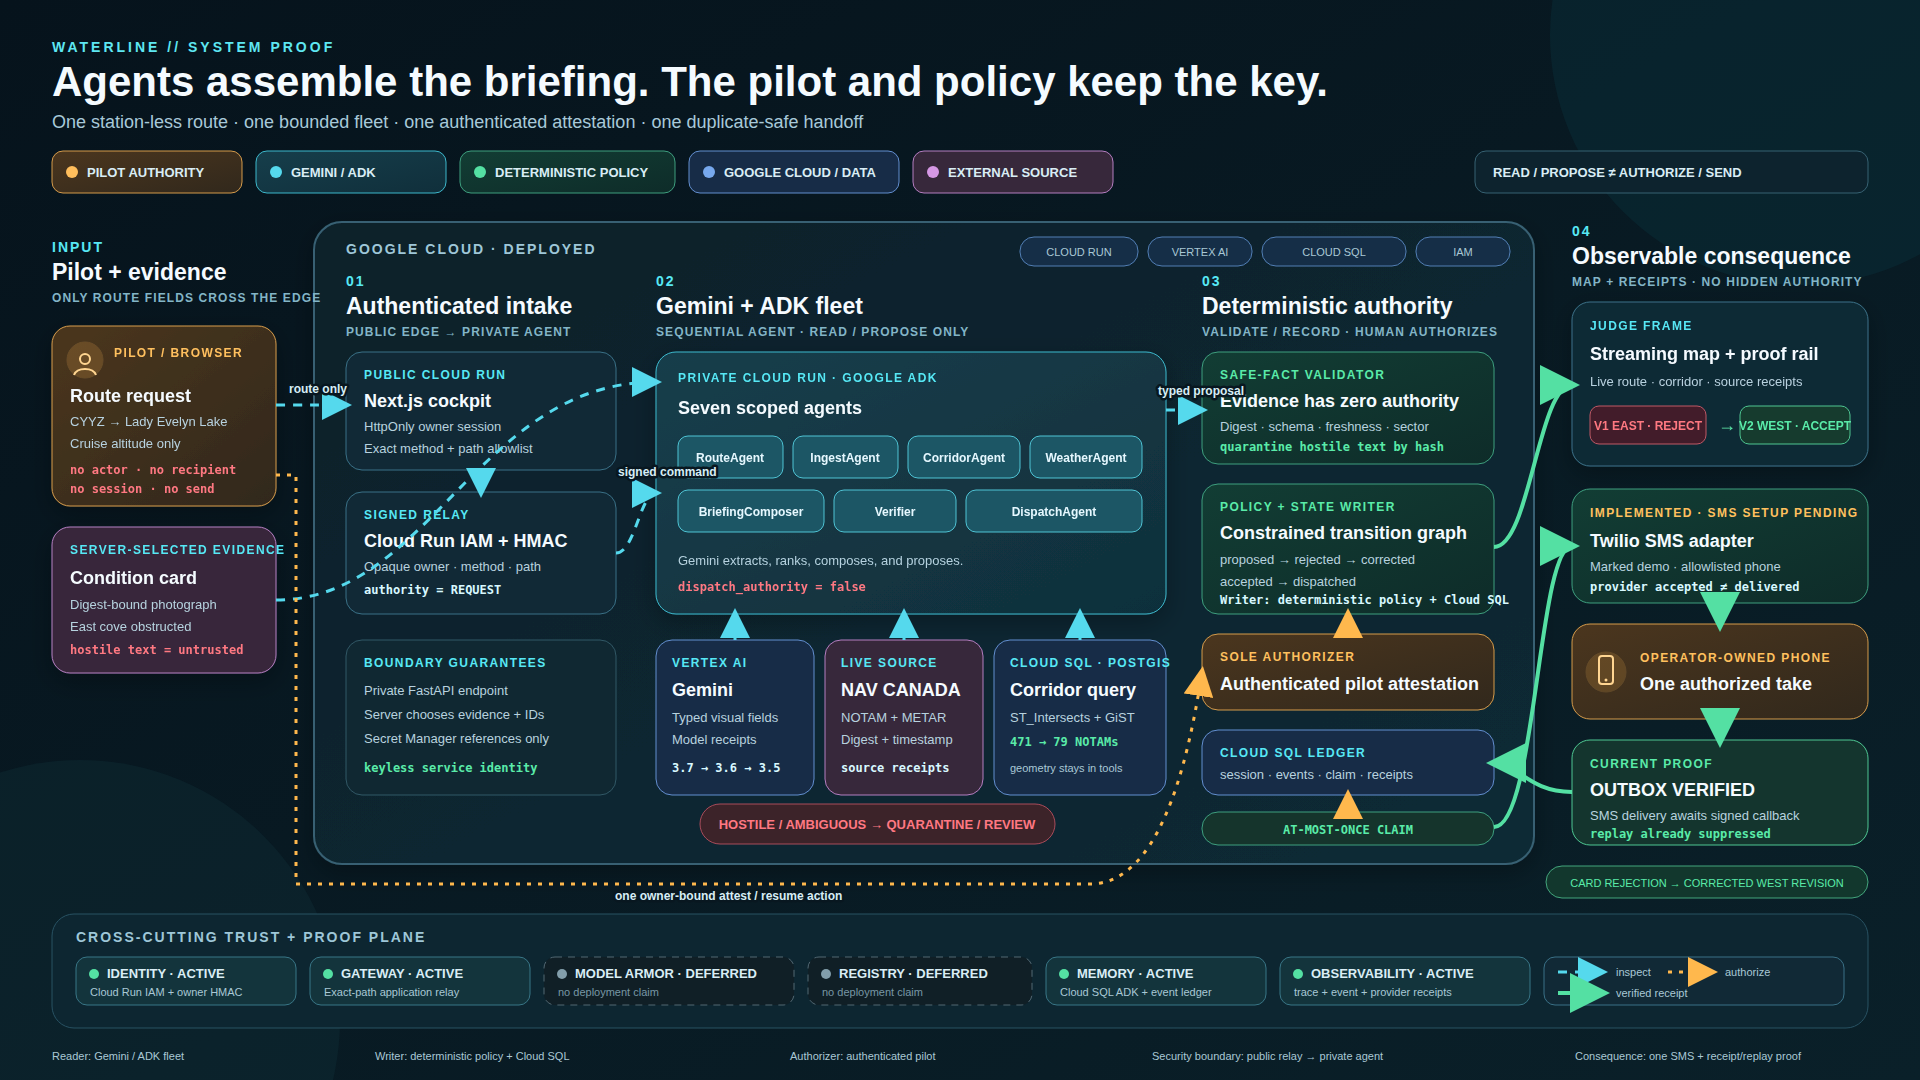
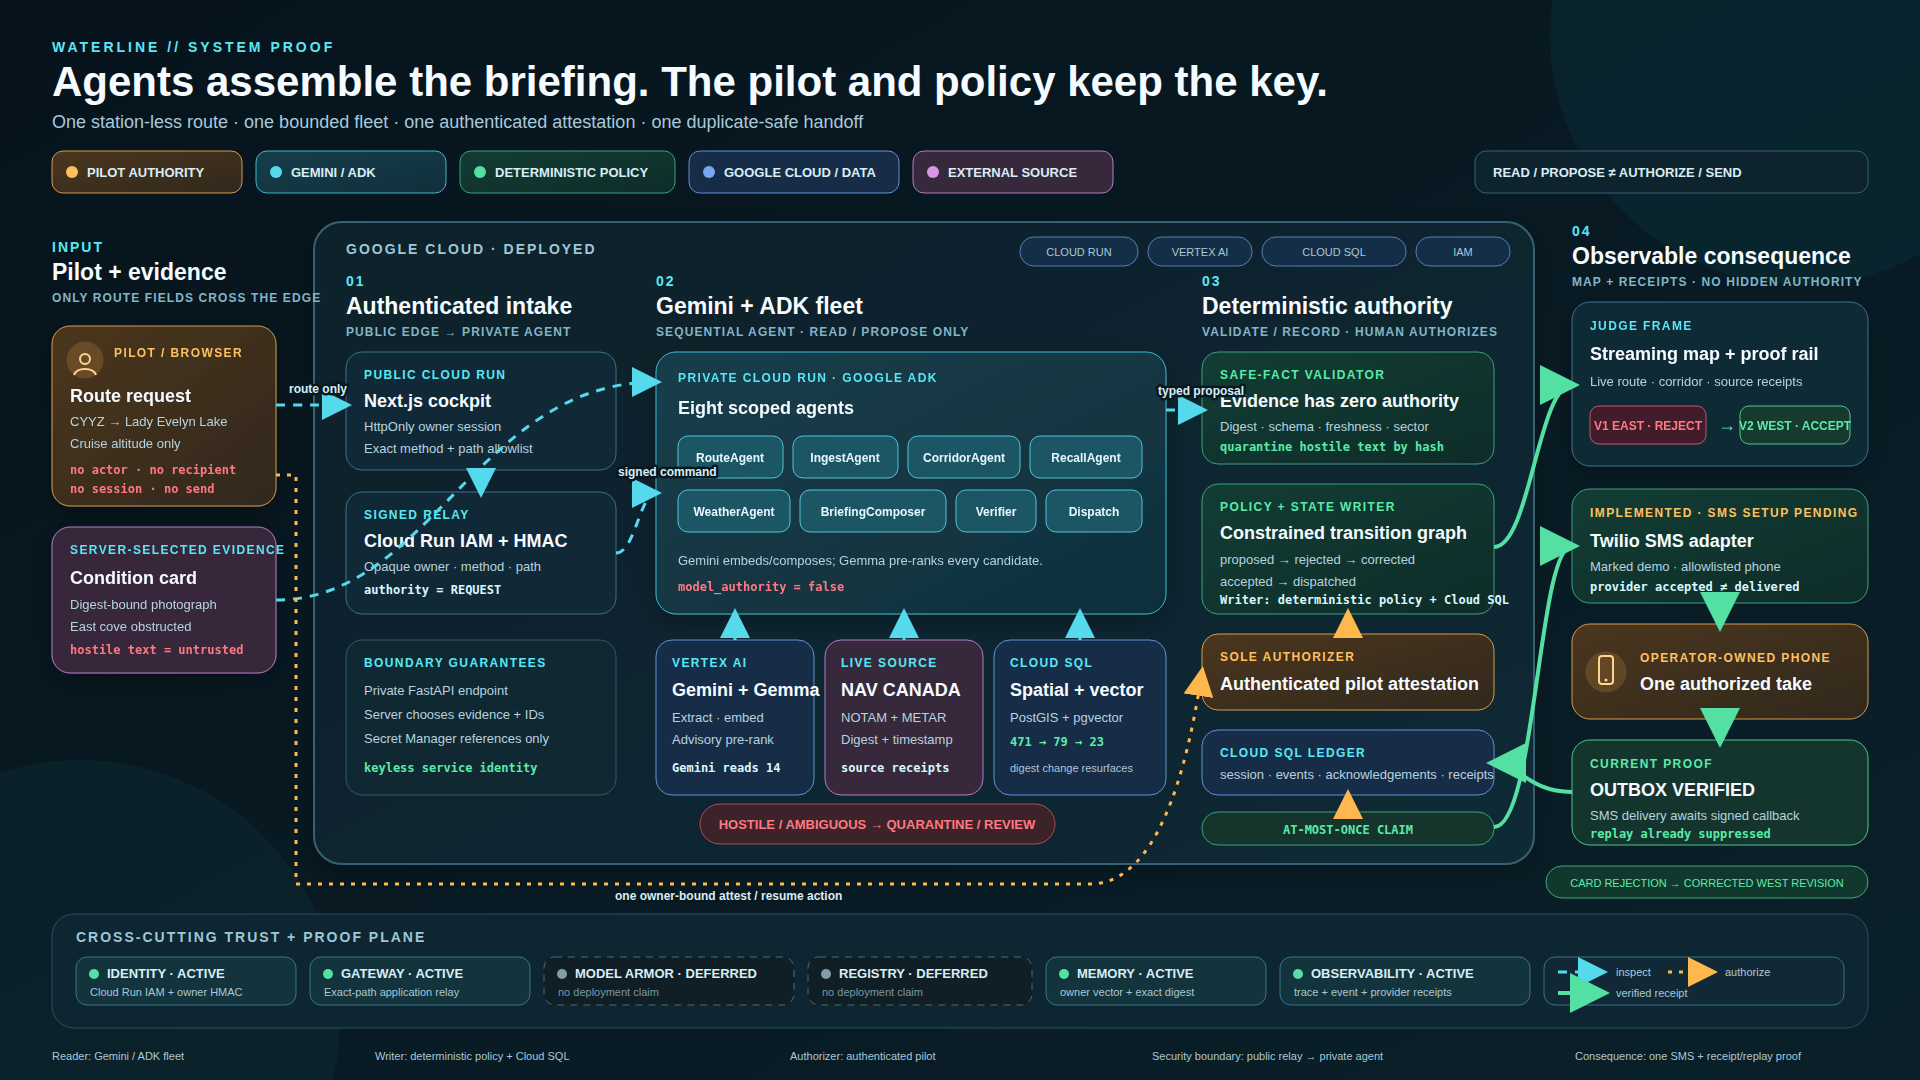
feat(demo): expose repeat-flight memory proof

diff --git a/web/src/app/page.tsx b/web/src/app/page.tsx
@@ -282,7 +282,10 @@ export default function Page() {
   }
 
   const stateTimeline = timeline.filter((event) =>
-    event.from_status !== event.to_status || event.event_type === "recovery_started"
+    event.from_status !== event.to_status ||
+    event.event_type === "recovery_started" ||
+    event.event_type === "flight_memory_written" ||
+    event.event_type === "flight_memory_failed"
   );
   const canAttest = mission?.status === "awaiting_attestation" &&
     conditionCard?.validation_result === "accepted" &&
@@ -315,7 +318,7 @@ export default function Page() {
         </div>
         <div className="feed">
           <div className="section-h">Agent roster</div>
-          {steps.length === 0 && !running && <div className="prov">Seven agents brief in sequence.</div>}
+          {steps.length === 0 && !running && <div className="prov">Eight agents brief in sequence.</div>}
           {mission && (
             <div className="mission-chip">
               <span>{mission.mission_id}</span>
@@ -331,7 +334,11 @@ export default function Page() {
                 <div className={`state-event state-${event.to_status}`} key={event.event_id}>
                   <i aria-hidden="true" />
                   <div>
-                    <strong>{event.to_status.replaceAll("_", " ")}</strong>
+                    <strong>{event.event_type === "flight_memory_written"
+                      ? "MEMORY WRITTEN"
+                      : event.event_type === "flight_memory_failed"
+                        ? "MEMORY DEGRADED"
+                        : event.to_status.replaceAll("_", " ")}</strong>
                     <span>{event.reason_code.replaceAll("_", " ")}</span>
                     <small>{event.event_id}</small>
                   </div>
@@ -395,6 +402,7 @@ export default function Page() {
           <div className="k"><span className="dot" style={{ background: "#35d0d6" }} />corridor ±10 NM</div>
           <div className="k"><span className="dot" style={{ background: "#e6eef7" }} />NOTAM on route</div>
           <div className="k"><span className="dot" style={{ background: "#ef6b6b" }} />FIR-wide NOTAM</div>
+          <div className="k"><span className="dot" style={{ background: "#ff4f91" }} />changed source resurfaced</div>
           <div className="k"><span className="dot" style={{ background: "#57c98a" }} />source station</div>
         </div>
         <div className="footer">HACKATHON DEMO · PILOT REVIEW REQUIRED</div>

diff --git a/web/src/components/MapView.tsx b/web/src/components/MapView.tsx
@@ -23,8 +23,9 @@ const PAINT: Record<string, () => maplibregl.LayerSpecification[]> = {
     paint: { "line-color": "#f2b45a", "line-width": 2.5, "line-dasharray": [2, 1] } }],
   notams: () => [{ id: "notams", type: "circle", source: "notams",
     paint: {
-      "circle-radius": 5,
-      "circle-color": ["case", ["get", "fir_wide"], "#ef6b6b", "#e6eef7"],
+      "circle-radius": ["case", ["get", "memory_changed"], 8, 5],
+      "circle-color": ["case", ["get", "memory_changed"], "#ff4f91",
+        ["get", "fir_wide"], "#ef6b6b", "#e6eef7"],
       "circle-opacity": 0.85, "circle-stroke-color": "#0a0f16", "circle-stroke-width": 1 } }],
   stations: () => [{ id: "stations", type: "circle", source: "stations",
     paint: { "circle-radius": 7, "circle-color": "#57c98a",

diff --git a/README.md b/README.md
@@ -16,7 +16,7 @@ A bush pilot flying a float plane to a remote lake may have no identifier-keyed 
 2. For Lady Evelyn Lake, the authenticated service attaches one prepared synthetic condition-card photograph. Gemini proposes a typed extraction; a deterministic validator binds it to the tracked digest, accepts the east-cove obstruction, and quarantines the embedded hostile instruction without copying that text into trusted state.
 3. Waterline pulls the **live NAV CANADA** NOTAM feed for the Flight Information Region — hundreds of NOTAMs — and reduces it in PostGIS to only the ones whose geometry intersects the route corridor and whose altitude/validity bands overlap the flight. The measured **471 → 79 NOTAM** reduction on a Toronto-FIR route — **83% dropped as off-route** — is an architecture result: `ST_Intersects` runs against GiST-indexed NOTAM areas and the buffered route, while the remaining predicates stay in the same database query.
 4. For the station-less destination, it ranks the nearest real METAR stations and synthesizes a read with an **explicit confidence** that falls with distance and rises with agreement. The raw METAR travels with every inference.
-5. Seven agents brief in sequence; a **Verifier** refuses any claim that doesn't trace to a source, a deterministic gate rejects east-cove plan v1 and proposes west-cove plan v2 pending pilot review, and DispatchAgent creates one marked synthetic, human-gated flight-following handoff.
+5. Eight agents brief in sequence; a **RecallAgent** removes only unchanged owner-acknowledged noise, a **Verifier** refuses any claim that doesn't trace to a source, a deterministic gate rejects east-cove plan v1 and proposes west-cove plan v2 pending pilot review, and DispatchAgent creates one marked synthetic, human-gated flight-following handoff.
 
 Normal runs fetch current, reproducible government data. A local-only frozen capture may be used when developing offline, and its provenance is labelled explicitly. The exact live source request is one line and needs no key:
 
@@ -31,6 +31,7 @@ curl "https://plan.navcanada.ca/weather/api/alpha/?site=CZYZ&alpha=notam"
 | **RouteAgent** | resolve the request to coordinates | `resolve_route` |
 | **IngestAgent** | fetch and load current FIR NOTAM + METAR inputs | `fetch_and_load_sources` |
 | **CorridorAgent** | reduce the FIR set to the route | `filter_route_corridor` (PostGIS) |
+| **RecallAgent** | suppress only unchanged, owner-acknowledged route noise; pre-rank the surfaced set | `recall_destination_memory` (Gemini embedding + Cloud SQL vector + advisory Gemma) |
 | **WeatherAgent** | infer the station-less read | `infer_destination_weather` (PostGIS) |
 | **BriefingComposer** | rank hazards for a low float flight, write the briefing | — |
 | **Verifier** | refuse any claim not traceable to a source | — |
@@ -45,6 +46,7 @@ The geometry is entirely in the tools; the agents orchestrate, rank, compose, an
 The [full architecture guide](ARCHITECTURE.md) names the reader, deterministic writer, sole human authorizer, public/private security boundary, and verified consequence. It also distinguishes implemented controls from deferred Google-managed capabilities, so the diagram never implies Model Armor, Agent Registry, or deployed observability that does not yet exist.
 
 - **Failure-tolerant routing:** the model layer tries `gemini-3.7-flash → 3.6 → 3.5`; a fresh model under launch load throws 503s, and the demo never stalls on one. Every model in the chain clears the required "Gemini 3.5 or newer" floor. Vertex publisher calls use the proven `global` endpoint independently of the `us-central1` runtime/database region.
+- **Load-bearing memory + cost routing:** `gemini-embedding-001` maps the owner-bound destination to a 768-dimensional Cloud SQL vector. Exact NOTAM digest and validity matches may suppress acknowledged noise, while any changed source resurfaces. Vertex MaaS Gemma 4 advisory-ranks the complete surfaced set so Gemini reads the top 14; Gemma can demote but cannot delete a source or change the raw map layer.
 - **Crash recovery:** in the deployed configuration, `WATERLINE_SESSION_DB` points ADK's `DatabaseSessionService` at Cloud SQL; a briefing killed mid-run resumes under the same session id. Local sessions are durable only when that variable points to a persistent database.
 - **Fail-closed dispatch:** a free-form Verifier rejection cannot fall through to DispatchAgent. A deterministic ADK callback independently checks required provenance, inference labelling, source station/distance, NOTAM indices, the pilot-review statement, and an authenticated owner-bound attestation before unlocking dispatch.
 - **Authenticated mission ownership:** the browser can call only the Next.js relay's exact command allowlist. The relay issues a tamper-evident HttpOnly pilot session, signs its opaque actor plus the method/path/body/timestamp, and authenticates to the private agent with its Google service identity. The agent derives opaque owner/user references and generates mission/session ids; another browser cannot resume that mission.
@@ -56,16 +58,16 @@ The [full architecture guide](ARCHITECTURE.md) names the reader, deterministic w
 
 ## Stack
 
-- **Gemini 3.5+ Flash** (via the Google GenAI SDK), primary `gemini-3.7-flash`.
-- **Google Agent Development Kit (ADK)** — `SequentialAgent` roster of seven `LlmAgent`s plus a deterministic pre-dispatch callback.
+- **Gemini 3.5+ Flash** (via the Google GenAI SDK), `gemini-embedding-001`, and advisory Vertex MaaS `google/gemma-4-26b-a4b-it-maas`.
+- **Google Agent Development Kit (ADK)** — `SequentialAgent` roster of eight `LlmAgent`s plus a deterministic pre-dispatch callback.
 - **Google Cloud Run** — public Next.js service and private FastAPI agent service, joined by keyless service identity.
-- **Cloud SQL for PostgreSQL / PostGIS** — database-native corridor filtering with `ST_Intersects`, GiST-indexed NOTAM areas, and altitude/time predicates. It also persists missions, events, dispatch claims, and — when `WATERLINE_SESSION_DB` is configured — ADK sessions.
+- **Cloud SQL for PostgreSQL / PostGIS / pgvector** — database-native corridor filtering with `ST_Intersects`, owner-scoped semantic destination recall, exact acknowledgement checks, durable mission events, dispatch claims, and — when `WATERLINE_SESSION_DB` is configured — ADK sessions.
 - **Next.js 16 / React 19 / MapLibre GL** frontend, streaming Server-Sent Events.
 
 ## Run it locally
 
 ```bash
-# 1. Postgres + PostGIS
+# 1. PostgreSQL + PostGIS + pgvector
 docker compose up -d
 
 # 2. Agent service (Python 3.12)

diff --git a/ARCHITECTURE.md b/ARCHITECTURE.md
@@ -22,11 +22,13 @@ The public/private security boundary is between the same-origin Next.js relay an
 | Identity | Implemented locally; cloud identities provisioned | Separate keyless `waterline-web` and `waterline-runtime` service accounts; signed HttpOnly pilot session; owner-bound API tests |
 | Gateway | Implemented as the application boundary | Exact-path same-origin relay, Cloud Run IAM ID token, and HMAC request binding. This is not a claim that Google Cloud Agent Gateway is deployed. |
 | Model Armor | Deferred | Not enabled and not claimed. Hash-only hostile-text quarantine and deterministic validation are application controls, not Model Armor. |
-| Registry | Deferred | No Agent Registry resource exists and none is claimed. The seven-agent roster is code-defined. |
-| Memory | Implemented | With `WATERLINE_SESSION_DB` configured, ADK `DatabaseSessionService`, missions, append-only events, attestations, and dispatch receipts persist in Cloud SQL/PostgreSQL. PostGIS is load-bearing for a separate reason: exact corridor reduction remains a database query rather than Python row paging. |
+| Registry | Deferred | No Agent Registry resource exists and none is claimed. The eight-agent roster is code-defined. |
+| Memory | Implemented | With `WATERLINE_SESSION_DB` configured, ADK `DatabaseSessionService`, missions, append-only events, attestations, dispatch receipts, and owner-scoped NOTAM acknowledgements persist in Cloud SQL/PostgreSQL. `gemini-embedding-001` resolves the semantic destination and pgvector retrieves nearby prior flights; exact source digest and validity checks alone permit suppression. PostGIS remains load-bearing for exact corridor reduction. |
 | Observability | Implemented and deployed | Trace IDs, event IDs, reason codes, source/model/gate receipts, durable recovery, Cloud Run revision/request logs, and the accepted continuous outbox proof. |
 
 This status split is deliberate. Model Armor and Registry appear in the trust plane so a judge can see where they would sit, while dashed styling and explicit “deferred” labels prevent an architecture aspiration from becoming a false deployed-service claim.
+
+The memory ladder deliberately stops at Cloud SQL vector search: one briefing needs owner-scoped semantic destination recall plus exact NOTAM digest checks, not a new managed Memory Bank control plane, IAM surface, or autonomous long-term-memory authority.
 
 ## Exception paths
 

diff --git a/TESTING.md b/TESTING.md
@@ -59,6 +59,33 @@ At desktop 1440×1000 and mobile 390×844, inspect these states:
 
 Every viewport must have no horizontal overflow. Clean awaiting/dispatched flows must have zero console errors. MapLibre may emit WebGL performance warnings in headless rendering; record them as renderer warnings rather than application failures. The completed replay intentionally returns `200` with the original receipt and `duplicate_suppressed=true`; an ambiguous claimed-but-incomplete provider attempt remains a `409` reconciliation case.
 
+### Repeat-flight memory and model-routing proof
+
+Use the same authenticated browser owner for both flights. Flight 1 must show the
+PostGIS reduction and then reach `dispatched`; its durable timeline must include
+`terminal attested notam ack` with the number of acknowledgement rows written.
+Immediately before starting flight 2, run the guarded mutation helper in a second
+terminal so it changes a real database row after the new ingest and before the
+corridor tool reads it:
+
+```bash
+DATABASE_URL="$DATABASE_URL" poetry -C agent run python \
+  ../scripts/mutate_notam_for_memory_demo.py --owner-ref '<redacted owner_ref>'
+```
+
+Flight 2 must visibly produce both reductions (`471 → 79` geometry, then
+`79 → 23` owner memory), a `changed` RecallAgent step naming the one digest or
+validity mismatch that resurfaced, and `Gemini reads 14 of 23; Gemma triaged the
+rest`. The raw map layer must contain all 23 surfaced records including the
+changed marker. A fresh live ingest restores the synthetic mutation.
+
+Failure checks:
+
+- Disable or break Vertex embeddings: recall must return zero memories and show all 79.
+- Use a different authenticated owner: no acknowledgements may match.
+- Return an incomplete or duplicate Gemma order: the adapter must append every omitted NOTAM; map cardinality cannot fall.
+- Change either `raw` or `end_valid`: the NOTAM must resurface at full weight.
+
 ## 4. Cloud foundation gate
 
 These commands are read-only except for the verifier's API calls to inspect resources:

diff --git a/submission.md b/submission.md
@@ -16,7 +16,7 @@ does not update Devpost.
 
 Primary (145 characters):
 
-> Seven agents brief station-less water destinations, reject a poisoned route, and let only an authenticated pilot trigger one replay-safe handoff.
+> Eight agents brief station-less water destinations, reject a poisoned route, and let only an authenticated pilot trigger one replay-safe handoff.
 
 Alternates:
 
@@ -50,9 +50,9 @@ receipt without creating another handoff.
 
 ### How we built it
 
-Seven named agents run on Google's Agent Development Kit with Gemini 3.5-or-newer Flash models:
+Eight named agents run on Google's Agent Development Kit with Gemini 3.5-or-newer Flash models:
 
-`RouteAgent → IngestAgent → CorridorAgent → WeatherAgent → BriefingComposer → Verifier → DispatchAgent`
+`RouteAgent → IngestAgent → CorridorAgent → RecallAgent → WeatherAgent → BriefingComposer → Verifier → DispatchAgent`
 
 The private FastAPI agent runs on Cloud Run. Next.js exposes only a same-origin, exact-path relay
 that authenticates to the agent with a keyless Cloud Run service identity and binds each command to
@@ -200,7 +200,7 @@ All people, phone contacts, route plans, and condition-card contents in this flo
 ## Which Google SDK did you use?
 
 This is a **single-select** dropdown. Select **Agent Development Kit (ADK)** because it coordinates
-the seven scoped agents. The description and Built with fields separately identify the Google Gen AI
+the eight scoped agents. The description and Built with fields separately identify the Google Gen AI
 SDK used for Vertex Gemini model turns and typed visual extraction.
 
 ## Which Google Cloud service(s) did you use?
